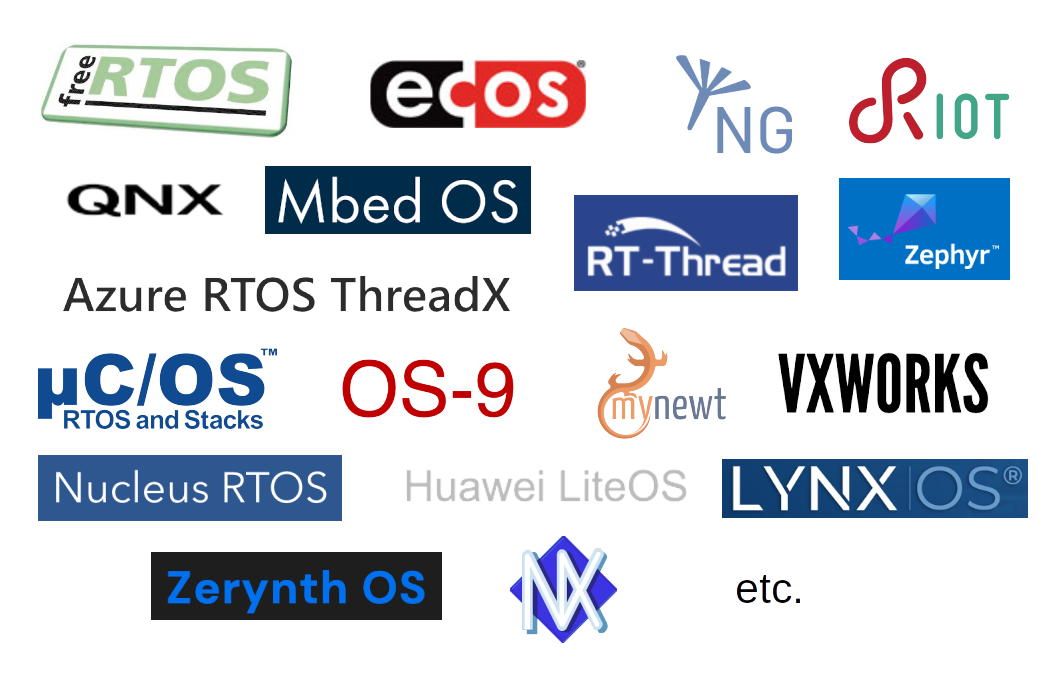
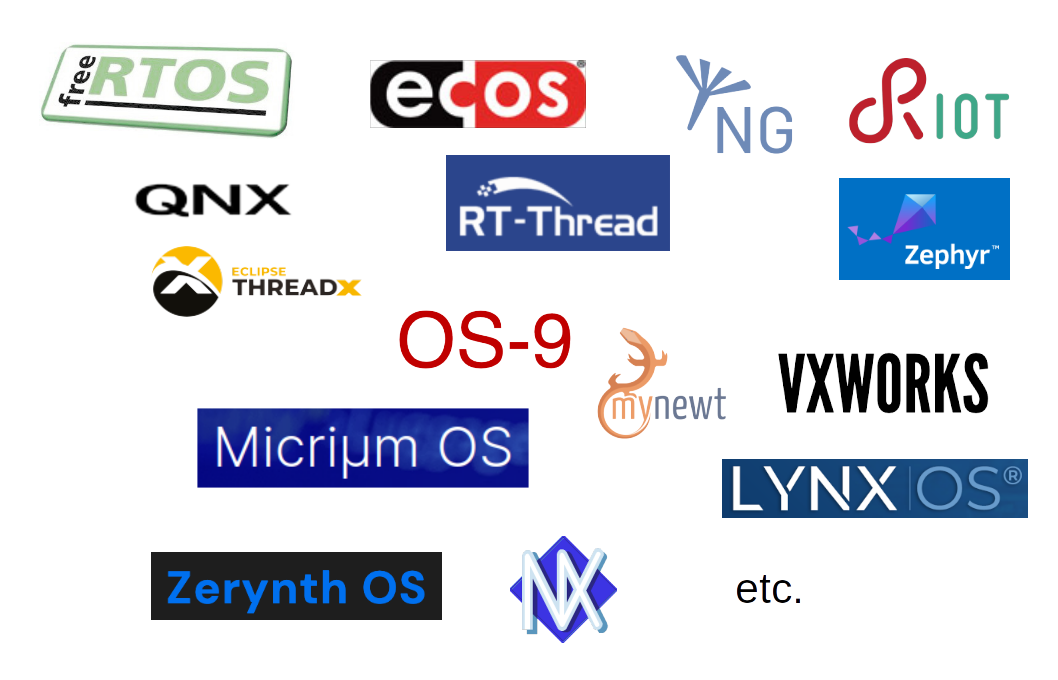
Add Execution Environments section

Changed region(s): [[0.0312, 0.2162, 0.7798, 0.7721]]

diff --git a/docs/part2.html b/docs/part2.html
@@ -1,0 +1,285 @@
+<!doctype html>
+<html lang="en">
+
+  <head>
+    <meta charset="utf-8">
+    <meta name="viewport" content="width=device-width, initial-scale=1.0, maximum-scale=1.0, user-scalable=no">
+
+    <link rel="icon" href="favicon.ico">
+
+    <title>RTOS for ML</title>
+
+    <link rel="stylesheet" href="dist/reset.css">
+    <link rel="stylesheet" href="dist/reveal.css">
+    <link rel="stylesheet" href="dist/theme/pb.css">
+    <link rel="stylesheet" href="pres-style.css">
+
+    <!-- Theme used for syntax highlighted code -->
+    <link rel="stylesheet" href="plugin/highlight/monokai.css">
+  </head>
+
+  <body>
+    <div class="reveal">
+      <div class="slides">
+	
+        <!-- -------------------- Contents ---------------------------------------- -->
+
+        <section>
+          <h3>Contents - 1/2</h3>
+          <div class="pbcolumns">
+            <div class="pbsmaller">
+              <ul>
+                <li><a href="#/executionEnvironments">Execution environments</a>
+                  <ul>
+                    <li><a href="#/bareMetal">Bare metal</a></li>
+                    <li><a href="#/rtos">RTOS</a></li>
+                    <li><a href="#/os">OS</a></li>
+                  </ul>
+                </li>
+                <li>More about what an RTOS is</li>
+                <li>Benefits</li>
+                <li>Drawbacks</li>
+                <li>Components</li>
+                <li>Tasks
+                  <ul>
+                    <li>What a task is and can do</li>
+                    <li><b>Practice: creating and starting one task</b></li>
+                    <li><b>Practice: button and LED with tasks</b></li>
+                    <li><b>Practice: Running two tasks with bugs</b></li>
+                  </ul>
+                </li>
+              </ul>
+            </div>
+            <div class="pbsmaller">
+              <ul>
+                <li>Concurrency control
+                  <ul>
+                    <li><b>Practice: shared structure</b></li>
+                    <li>Problem statement</li>
+                    <li>Mutex</li>
+                    <li><b>Practice: shared structure with mutex</b></li>
+                    <li>Priority inversion</li>
+                    <li>Deadlock</li>
+                    <li>Semaphore</li>
+                    <li><b>Practice: semaphore</b></li>
+                  </ul>
+                </li>
+                <li>Communication
+                  <ul>
+                    <li>Introduction</li>
+                    <li>Queues</li>
+                    <li><b>Practice: using a queue</b></li>
+                    <li><b>Practice: getting all button presses</b></li>
+                  </ul>
+                </li>
+              </ul>
+            </div>
+          </div>
+        </section>
+
+        <section>
+          <h3>Contents - 2/2</h3>
+          <div class="pbcolumns">
+            <div class="pbsmaller">
+              <ul>
+                <li>Communication and concurrency control
+                  <ul>
+                    <li>Queues</li>
+                    <li><b>Practice: preventing deadlocks</b></li>
+                  </ul>
+                </li>
+                <li>Concurrency: summary</li>
+                <li>Time</li>
+                <li>Memory allocation</li>
+                <li>Middleware</li>
+                <li><b>Practice: a non-trivial application</b></li>
+              </ul>
+            </div>
+          </div>
+        </section>
+        
+        <!-- -------------------- Execution environments ---------------------------------------- -->
+        
+        <section id="executionEnvironments">
+          <h3>Execution environments</h3>
+        </section>
+        <section>
+          <p>Execution environment: what the target board provides to run an application.</p>
+        </section>
+        
+        <!-- -------------------- Execution environments > bare metal ---------------------------------------- -->
+        
+        <section id="bareMetal">
+          <h4>Bare metal</h4>
+          <ul>
+            <li>You write all the code, without any help to run concurrent tasks,
+              to share data between tasks, etc.</li>
+            <li>Nowadays, an abstraction layer is provided by almost all 
+              microcontroller manufacturers:
+              <ul>
+                <li>&rArr; Compatibility over a family of microcontrollers</li>
+                <li>&rArr; A little bit easier to use peripherals and interfaces</li>
+                <li>Arm: <a href="https://www.arm.com/technologies/cmsis" target="_blank">CMSIS</a></li>
+                <li>Silicon Labs: <a href="https://www.silabs.com/developer-tools/gecko-software-development-kit"
+                      target="_blank"">Gecko SDK</a></li>
+                <li>STMicroelectronics: <a href="https://github.com/STMicroelectronics/STM32Cube_MCU_Overall_Offer/blob/master/README.md#stm32cube-hal-drivers"
+                      target="_blank">HAL + LL</a></li>
+                <li>Espressif: <a href="https://www.espressif.com/en/products/sdks/esp-idf"
+                      target="_blank">ESP-IDF</a></li>
+                <li>Etc.</li>
+              </ul>
+            </li>
+          </ul>
+          <p>What we did in the practical sessions is bare-metal software development.</p>
+        </section>
+        
+        <!-- -------------------- Execution environments > RTOS ---------------------------------------- -->
+
+        <section id="rtos">
+          <h4>Real-Time Operating System (RTOS)</h4>
+          <ul>
+            <li>Provides real help to run concurrent tasks, share data between tasks, etc.</li>
+            <li>Allows for deterministic response time</li>
+            <li>Uses very little memory</li>
+            <li>No protection between tasks, nor between tasks and RTOS (no virtual memory)</li>
+            <li>No way to modify the application without rebuilding and reflashing (well, not fully true)</li>
+          </ul>
+        </section>
+
+        <section>
+          <p>Minimum required memory:</p>
+          <ul>
+            <li>RAM: a few KB</li>
+            <li>Flash: a few KB</li>
+            <li>Depends on the application</li>
+          </ul>
+        </section>
+
+        <section>
+          <img src="images/rtos.png">
+          <div class="pbverysmall">Sources: <a href="https://www.freertos.org/index.html" title="FreeRTOS"
+                                               target="_blank">FreeRTOS</a>,
+            <a href="https://www.ecoscentric.com/ecos/index.shtml" title="eCos" target="_blank">eCos</a>,
+            <a href="https://www.contiki-ng.org/" title="Contiki-NG"
+               target="_blank">Contiki-NG</a>,
+            <a href="http://riot-os.org/" title="RIOT" target="_blank">RIOT</a>,
+            <a href="https://blackberry.qnx.com/en" title="QNX" target="_blank">QNX</a>,
+           <a href="https://www.rt-thread.io/index.html" title="RT-Thread" target="_blank">RT-Thread</a>,
+            <a href="https://www.zephyrproject.org/" title="Zephyr" target="_blank">Zephyr</a>,
+            <a href="https://threadx.io/" title="ThreadX"
+               target="_blank">ThreadX</a>,
+            <a href="https://www.silabs.com/developer-tools/micrium-os" title="Micriµm OS" target="_blank">Micriµm OS</a>,
+            <a href="https://microware.com/" title="OS-9" target="_blank">OS-9</a>,
+            <a href="https://mynewt.apache.org/" title="Mynewt" target="_blank">Mynewt</a>,
+            <a href="https://www.windriver.com/products/vxworks/" title="VxWorks"
+               target="_blank">VxWorks</a>,
+            <a href="https://www.lynx.com/products/lynxos-posix-real-time-operating-system-rtos"
+               title="LynxOS" target="_blank">LynxOS</a>,
+            <a href="https://www.zerynth.com/zos/" title="Zerynth OS" target="_blank">Zerynth OS</a>,
+            <a href="https://nuttx.apache.org/" title="NuttX" target="_blank">NuttX</a>
+          </div>        
+        </section>
+
+        <section>
+          <ul>
+            <li>FreeRTOS acquired by Amazon - 2017</li>
+            <li>ThreadX acquired by Microsoft - 2019, transferred to the Eclipse Foundation, as open source - 2023</li>
+            <li>Google and Meta support Zephyr</li>
+          </ul>
+        </section>
+        
+        <section>
+          <p>Available services: will be seen farther.</p>
+        </section>
+
+        <!-- -------------------- Execution environments > OS ---------------------------------------- -->
+
+        <section id="os">
+          <h4>Operating System (OS)</h4>
+          <ul>
+            <li>Mainly: Linux</li>
+            <li>Similar to a desktop computer environment:
+              <ul>
+                <li>Package manager, to install new applications</li>
+                <li>Graphical user interface is possible</li>
+              </ul>
+            </li>
+          </ul>
+        </section>
+
+        <section>
+          <p>Minimum required memory:</p>
+          <ul>
+            <li>RAM: a few MB or a few tens of MB</li>
+            <li>Depends on applications</li>
+          </ul>
+          <p>Usually:</p>
+          <ul>
+            <li>RAM: from 512 MB to 8 GB</li>
+            <li>Flash card: from 1 GB to 8 GB</li>
+          </ul>
+        </section>
+
+        <section>
+          <ul>
+            <li>Linux typically requires an MMU (Memory Management Unit) &rArr; virtual memory</li>
+            <li>The kernel can be configured to work without one
+              <ul>
+                <li>Thanks to μClinux project</li>
+                <li>Beware about applications compatibility</li>
+              </ul>
+            </li>
+          </ul>
+        </section>
+
+        <section>
+          <img src="images/embeddedOS.png">
+          <div class="pbverysmall">Sources: <a href="https://isc.tamu.edu/~lewing/linux/" title="Larry Ewing"
+                                               target="_blank">Larry Ewing</a>,
+            <a href="https://www.yoctoproject.org/" title="Yocto Project" target="_blank">Yocto Project</a>,
+            <a href="https://legato.io/" title="Legato" target="_blank">Legato</a>,
+            <a href="https://archlinuxarm.org/" title="Arch Linux ARM" target="_blank">Arch Linux ARM</a>,
+            <a href="https://openwrt.org/" title="OpenWrt Project" target="_blank">OpenWrt Project</a>,
+            <a href="https://www.balena.io/os/" title="balenaOS" target="_blank">balenaOS</a>,
+            <a href="https://www.windriver.com/products/linux/" title="Wind River" target="_blank">Wind
+              River</a>,
+            <a href="https://www.mvista.com/" title="MontaVista" target="_blank">MontaVista</a>,
+            <a href="https://www.lynx.com/products/lynx-mosaic-modular-development-framework"
+               title="LYNX MOSA.ic" target="_blank">LYNX MOSA.ic</a>
+          </div>
+        </section>
+        
+        <section>
+          <p>Latest news: <a href="https://git.kernel.org/pub/scm/linux/kernel/git/torvalds/linux.git/commit/?id=baeb9a7d8b60b021d907127509c44507539c15e5"
+               target="_blank">real-time is now supported by mainline Linux kernel</a>.</p>
+          <p>&rArr; "standard" Linux now can provide deterministic response time.</p>
+        </section>
+
+
+
+
+
+	
+      </div>
+    </div>
+
+    <script src="dist/reveal.js"></script>
+    <script src="plugin/notes/notes.js"></script>
+    <script src="plugin/markdown/markdown.js"></script>
+    <script src="plugin/highlight/highlight.js"></script>
+    <script>
+      // More info about initialization & config:
+      // - https://revealjs.com/initialization/
+      // - https://revealjs.com/config/
+      Reveal.initialize({
+	  hash: true,
+	  slideNumber: 'c/t',
+	  // Scroll view inhibited until arrow keys can be used.
+	  //view: 'scroll',
+	  //scrollProgress: true,
+	  // Learn about plugins: https://revealjs.com/plugins/
+	  plugins: [ RevealMarkdown, RevealHighlight, RevealNotes ]
+      });
+    </script>
+  </body>
+</html>      

diff --git a/docs/index.html b/docs/index.html
@@ -42,7 +42,7 @@
             <tbody>
               <tr>
                 <td>16-Dec-2024</td>
-                <td>Interrupts</td>
+                <td>Interrupts, execution environments</td>
               </tr>
               <tr>
                 <td>12-Dec-2024</td>
@@ -196,11 +196,11 @@
                     <li><a href="#/sleepModes">Sleep modes</a></li>
                   </ul>
                 </li>
-                <li>Execution environments
+                <li><a href="part2.html" target="_blank">Execution environments</a>
                   <ul>
-                    <li>Bare metal</li>
-                    <li>RTOS</li>
-                    <li>OS</li>
+                    <li><a href="part2.html" target="_blank">Bare metal</a></li>
+                    <li><a href="part2.html" target="_blank">RTOS</a></li>
+                    <li><a href="part2.html" target="_blank">OS</a></li>
                   </ul>
                 </li>
               </ul>
@@ -2789,15 +2789,19 @@
           <p>In many applications, there are not a lot of events</p>
           <p>Question: how can energy be saved?</p>
         </section>
+        
         <section>
           <p>Answer: enter a sleep mode between two scans for events</p>
         </section>
+        
         <section>
           <img src="images/backgroundIntSleep.png">
         </section>
+        
         <section>
           <h4>Exiting from sleep mode</h4>
         </section>
+        
         <section>
           <div class="r-stack">
             <div>
@@ -2817,6 +2821,7 @@
             </div>
           </div>
         </section>
+        
         <section>
           <ul>
             <li>Entering a sleep mode is important for devices without external power supply</li>
@@ -2824,7 +2829,12 @@
             <li>The block(s) generating events must be kept active</li>
           </ul>
         </section>
-  
+
+        <!-- -------------------- Link to part 2 ---------------------------------------- -->
+        
+        <section>
+          <h3><a href="part2.html" target="_blank">Part 2</a></h3>
+        </section>
 
       </div>
     </div>
